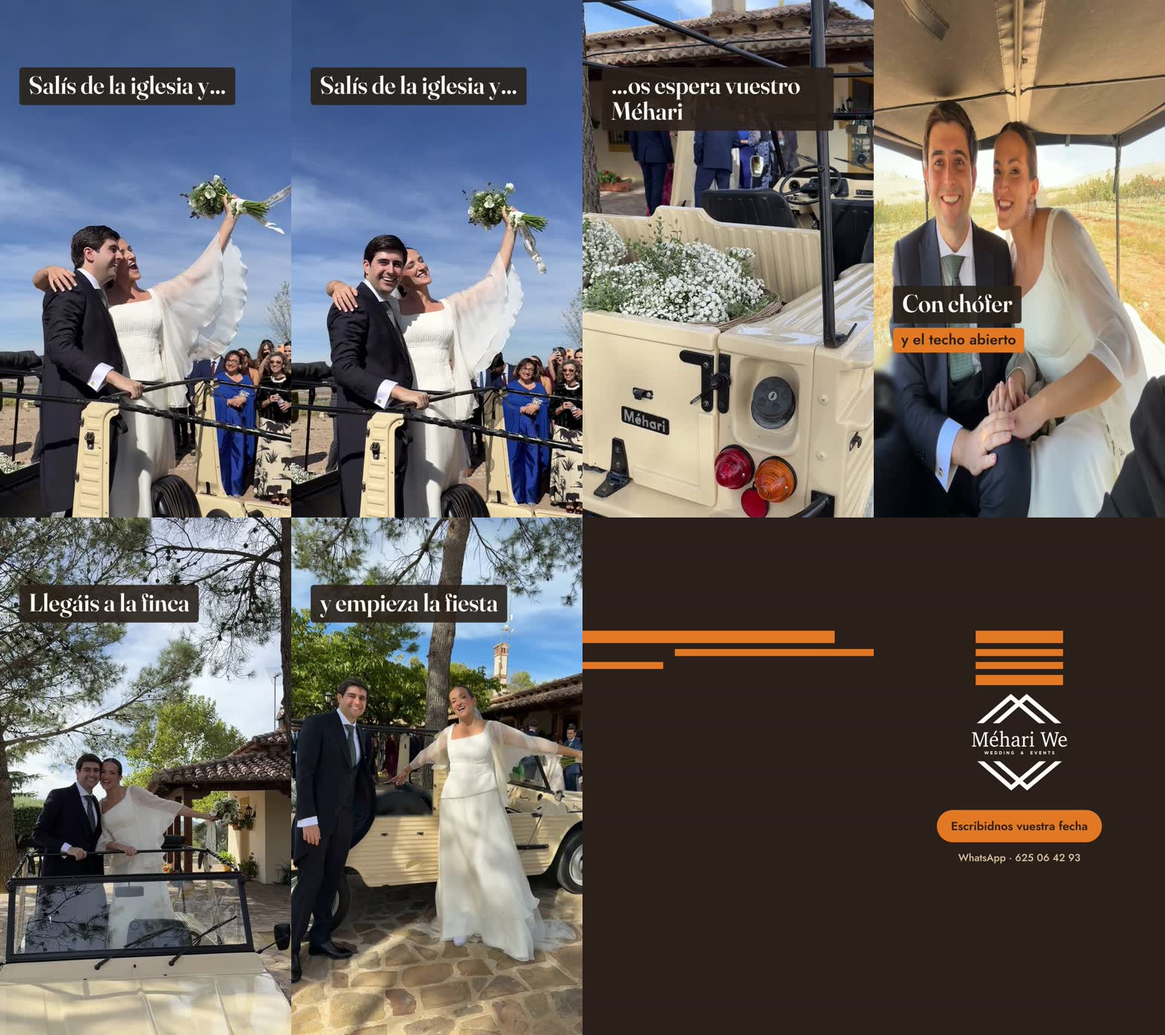
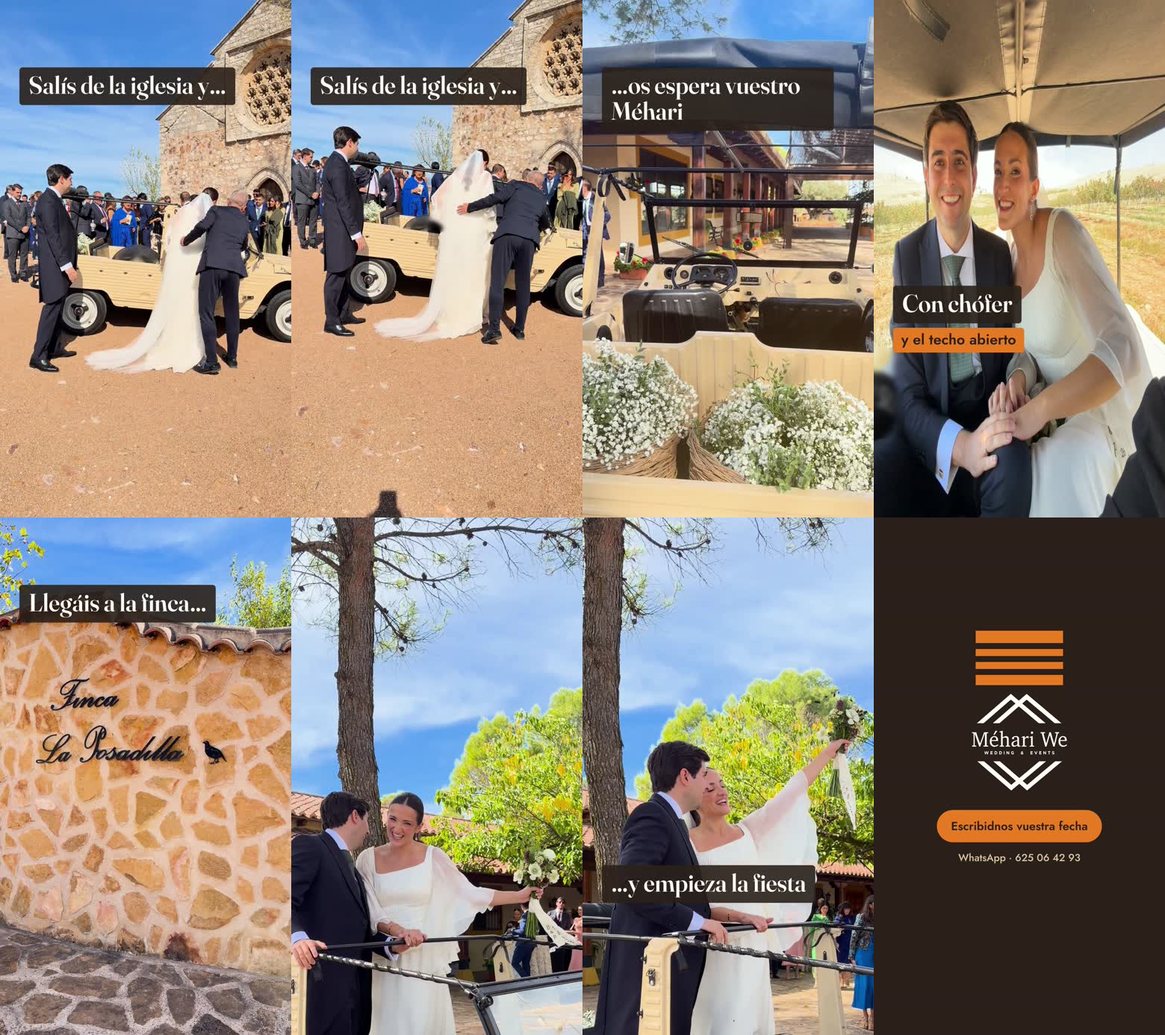
Rehace el reel «Salís de la iglesia y…» con los vídeos 4K de la boda
- v2 de 19,8 s con los vídeos de la carpeta de Drive (salida ante la ermita,
  cestas, cartel de la finca y llegada con los brazos arriba) más la Live del
  asiento de atrás, recortados desde el 4K y pasados de HLG a SDR.
- Funda de la salida lisa fotograma a fotograma con la herramienta nueva
  herramientas/material/funda_video.py; matrícula, chevrones y rótulo
  trasero fuera del encuadre.
- BRIEF, ficha y plan de la semana actualizados.

Claude-Session: https://claude.ai/code/session_01GvEHisSs4BYBiYTFsVnZm9

diff --git a/redes/instagram/reels/2026-11-11_salis-de-la-iglesia/index.html b/redes/instagram/reels/2026-11-11_salis-de-la-iglesia/index.html
@@ -24,41 +24,45 @@
       .rotulo { position: absolute; left: 72px; width: 860px; display: flex; flex-direction: column; align-items: flex-start; gap: 16px; }
       .rotulo.abajo { top: 1060px; }
       .rotulo.arriba { top: 250px; }
+      .rotulo.bajo { top: 1290px; }
       .linea { display: inline-block; }
       .principal { font-family: "Fraunces", serif; font-weight: 600; font-size: 92px; line-height: 1.04; color: var(--azahar); background: rgba(43, 33, 26, 0.9); padding: 18px 34px 26px; border-radius: 12px; }
       .secundaria { font-weight: 600; font-size: 54px; line-height: 1.12; color: var(--tinta); background: var(--naranja); padding: 14px 30px 18px; border-radius: 12px; }
     </style>
   </head>
   <body>
-    <div id="root" data-composition-id="reel" data-start="0" data-duration="15" data-width="1080" data-height="1920">
+    <div id="root" data-composition-id="reel" data-start="0" data-duration="19.8" data-width="1080" data-height="1920">
 
-      <!-- Pista 0: Live Photos de la boda del 24-10 en el orden del día, recortadas a 9:16 y con la funda
-           de la marca antigua, la matrícula y el chevrón fuera del encuadre (en 4049, difuminada; en 4079, funda lisa fotograma a fotograma). El sonido se mezcla aparte (BRIEF.md). -->
-      <video id="p1" class="clip plano" src="assets/clips/e1_4041_salida.mp4" data-start="0" data-duration="2.9" data-media-start="0" data-track-index="0" playsinline muted></video>
-      <video id="p2" class="clip plano" src="assets/clips/e2_4101_cestas.mp4" data-start="2.9" data-duration="1.9" data-media-start="0" data-track-index="0" playsinline muted></video>
-      <video id="p3" class="clip plano" src="assets/clips/e3_4049_detras.mp4" data-start="4.8" data-duration="2.8" data-media-start="0" data-track-index="0" playsinline muted></video>
-      <video id="p4" class="clip plano" src="assets/clips/e4_4073_llegada.mp4" data-start="7.6" data-duration="2.5" data-media-start="0" data-track-index="0" playsinline muted></video>
-      <video id="p5" class="clip plano" src="assets/clips/e5_4079_fiesta.mp4" data-start="10.1" data-duration="2.8" data-media-start="0" data-track-index="0" playsinline muted></video>
+      <!-- Pista 0: vídeos de la boda del 24-10 en el orden del día. Los 4K (HLG) se pasaron a SDR BT.709 y se
+           recortaron desde el original para dejar fuera la funda de la marca antigua, la matrícula, los chevrones
+           y el rótulo trasero (BRIEF.md). El plano del asiento de atrás es la Live Photo 4049. Sin sonido original. -->
+      <video id="p1" class="clip plano" src="assets/clips/e1_salida.mp4" data-start="0" data-duration="3.3" data-media-start="0" data-track-index="0" playsinline muted></video>
+      <video id="p2" class="clip plano" src="assets/clips/e2_cestas.mp4" data-start="3.3" data-duration="2.1" data-media-start="0" data-track-index="0" playsinline muted></video>
+      <video id="p3" class="clip plano" src="assets/clips/e3_detras.mp4" data-start="5.4" data-duration="2.8" data-media-start="0" data-track-index="0" playsinline muted></video>
+      <video id="p4" class="clip plano" src="assets/clips/e4_cartel.mp4" data-start="8.2" data-duration="2.4" data-media-start="0" data-track-index="0" playsinline muted></video>
+      <video id="p5" class="clip plano" src="assets/clips/e5_llegada.mp4" data-start="10.6" data-duration="3.0" data-media-start="0" data-track-index="0" playsinline muted></video>
+      <video id="p6" class="clip plano" src="assets/clips/e6_brazos.mp4" data-start="13.6" data-duration="4.1" data-media-start="0" data-track-index="0" playsinline muted></video>
 
       <!-- Pista 1: cierre de marca corto con el logo aprobado (2,1 s) -->
-      <div id="cierre" data-composition-id="cierre" data-composition-src="compositions/cierre-corto.html" data-start="12.9" data-duration="2.1" data-track-index="1" data-width="1080" data-height="1920"></div>
+      <div id="cierre" data-composition-id="cierre" data-composition-src="compositions/cierre-corto.html" data-start="17.7" data-duration="2.1" data-track-index="1" data-width="1080" data-height="1920"></div>
 
-      <!-- Pista 2: rótulos. Una frase partida en dos planos: «Salís de la iglesia y…» / «…os espera vuestro Méhari» -->
-      <div id="r1" class="clip rotulo arriba" data-start="0" data-duration="2.9" data-track-index="2">
+      <!-- Pista 2: rótulos. Dos frases partidas entre planos: «Salís de la iglesia y…» / «…os espera vuestro Méhari»
+           y «Llegáis a la finca…» / «…y empieza la fiesta». La llegada (p5) va sin texto, para que respire. -->
+      <div id="r1" class="clip rotulo arriba" data-start="0" data-duration="3.3" data-track-index="2">
         <span class="linea principal">Salís de la iglesia y…</span>
       </div>
-      <div id="r2" class="clip rotulo arriba" data-start="2.9" data-duration="1.9" data-track-index="2">
+      <div id="r2" class="clip rotulo arriba" data-start="3.3" data-duration="2.1" data-track-index="2">
         <span class="linea principal">…os espera vuestro Méhari</span>
       </div>
-      <div id="r3" class="clip rotulo abajo" data-start="4.8" data-duration="2.8" data-track-index="2">
+      <div id="r3" class="clip rotulo abajo" data-start="5.4" data-duration="2.8" data-track-index="2">
         <span class="linea principal">Con chófer</span>
         <span class="linea secundaria">y el techo abierto</span>
       </div>
-      <div id="r4" class="clip rotulo arriba" data-start="7.6" data-duration="2.5" data-track-index="2">
-        <span class="linea principal">Llegáis a la finca</span>
+      <div id="r4" class="clip rotulo arriba" data-start="8.2" data-duration="2.4" data-track-index="2">
+        <span class="linea principal">Llegáis a la finca…</span>
       </div>
-      <div id="r5" class="clip rotulo arriba" data-start="10.1" data-duration="2.8" data-track-index="2">
-        <span class="linea principal">y empieza la fiesta</span>
+      <div id="r5" class="clip rotulo bajo" data-start="13.6" data-duration="4.1" data-track-index="2">
+        <span class="linea principal">…y empieza la fiesta</span>
       </div>
     </div>
 
@@ -68,8 +72,8 @@
       // Cada línea se descubre de izquierda a derecha y se asienta sin rebote, justo después del corte.
       const oculto = { clipPath: "inset(0 100% 0 0)", x: -16 };
       const visible = { clipPath: "inset(0 0% 0 0)", x: 0, duration: 0.42, ease: "expo.out" };
-      [["#r1 .principal", 0.03], ["#r2 .principal", 2.95], ["#r3 .principal", 4.85], ["#r3 .secundaria", 5.2],
-       ["#r4 .principal", 7.65], ["#r5 .principal", 10.15]]
+      [["#r1 .principal", 0.03], ["#r2 .principal", 3.35], ["#r3 .principal", 5.45], ["#r3 .secundaria", 5.8],
+       ["#r4 .principal", 8.25], ["#r5 .principal", 13.7]]
         .forEach(([sel, t]) => tl.fromTo(sel, oculto, visible, t));
 
       window.__timelines["reel"] = tl;

diff --git a/herramientas/material/funda_video.py b/herramientas/material/funda_video.py
@@ -1,0 +1,75 @@
+"""Deja lisa la funda de la rueda de repuesto en un vídeo (borra «@MEHARI_TOURSUR» y el logo de Instagram).
+
+Es `--funda` de `retocar_foto.py` aplicado fotograma a fotograma: el polígono se marca una vez y se
+mueve con la funda, que se sigue con template matching. Se nota mucho menos que un difuminado.
+
+Uso:
+    python funda_video.py <entrada> <salida> T X,Y,AN,AL X1,Y1,X2,Y2,...
+
+- T: segundo en el que se marcan la caja y el polígono.
+- X,Y,AN,AL: caja que se sigue (la funda con un poco de margen), en píxeles del vídeo de entrada.
+- X1,Y1,…: polígono de la funda en ese mismo instante, por dentro del borde y sin tocar velos ni
+  ropa blanca, porque lo claro dentro del polígono se borra.
+
+Imprime el peor parecido del seguimiento; por debajo de 0,8 hay que revisar el vídeo. La salida no
+lleva audio y va en mp4v: vuelve a codificarla con FFmpeg (libx264) antes de montarla.
+La entrada tiene que ser SDR (ver la cabecera de `difuminar.py`). Necesita opencv-python-headless.
+"""
+import sys
+from pathlib import Path
+
+import cv2
+import numpy as np
+
+sys.path.insert(0, str(Path(__file__).resolve().parent))
+from retocar_foto import funda_lisa  # noqa: E402
+
+
+def main():
+    if len(sys.argv) != 6:
+        sys.exit(__doc__)
+    ent, sal, t0 = sys.argv[1], sys.argv[2], float(sys.argv[3])
+    x, y, w, h = (int(v) for v in sys.argv[4].split(","))
+    poli = np.array([int(v) for v in sys.argv[5].split(",")]).reshape(-1, 2)
+
+    cap = cv2.VideoCapture(ent)
+    fps = cap.get(cv2.CAP_PROP_FPS)
+    fs = []
+    while True:
+        ok, f = cap.read()
+        if not ok:
+            break
+        fs.append(f)
+    if not fs:
+        sys.exit(f"No se puede leer: {ent}")
+
+    i0 = min(len(fs) - 1, int(round(t0 * fps)))
+    cajas = [None] * len(fs)
+    cajas[i0] = (x, y)
+    peor = 1.0
+    for paso in (1, -1):
+        px, py = x, y
+        tpl = cv2.cvtColor(fs[i0], cv2.COLOR_BGR2GRAY)[y:y + h, x:x + w]
+        i = i0 + paso
+        while 0 <= i < len(fs):
+            g = cv2.cvtColor(fs[i], cv2.COLOR_BGR2GRAY)
+            r = 50
+            x0, y0 = max(0, px - r), max(0, py - r)
+            zona = g[y0:min(g.shape[0], py + h + r), x0:min(g.shape[1], px + w + r)]
+            _, v, _, loc = cv2.minMaxLoc(cv2.matchTemplate(zona, tpl, cv2.TM_CCOEFF_NORMED))
+            peor = min(peor, v)
+            px, py = x0 + loc[0], y0 + loc[1]
+            cajas[i] = (px, py)
+            tpl = g[py:py + h, px:px + w]  # la plantilla se actualiza: aguanta giros y cambios de escala lentos
+            i += paso
+
+    alto, ancho = fs[0].shape[:2]
+    out = cv2.VideoWriter(sal, cv2.VideoWriter_fourcc(*"mp4v"), fps, (ancho, alto))
+    for f, (cx, cy) in zip(fs, cajas):
+        out.write(funda_lisa(f, (poli + [cx - x, cy - y]).tolist()))
+    out.release()
+    print("peor parecido", round(peor, 2))
+
+
+if __name__ == "__main__":
+    main()

diff --git a/redes/instagram/publicaciones/2026-11-11_reel_salis-de-la-iglesia.md b/redes/instagram/publicaciones/2026-11-11_reel_salis-de-la-iglesia.md
@@ -3,11 +3,11 @@
 | Campo | Valor |
 |---|---|
 | Fecha prevista | 2026-11-11 (miércoles), 20:40 |
-| Formato | Reel 9:16, 15 s |
+| Formato | Reel 9:16, 19,8 s |
 | Línea | Bodas |
 | Objetivo | Alcance: llegar a parejas que no nos siguen |
 | Público | Parejas que se casan en 2027 |
-| Estado | Montado (v1). En revisión |
+| Estado | Montado (v2, con los vídeos 4K). En revisión |
 | Responsable | Nico (montaje) · Alejandro (texto y publicación) |
 
 Semana de la boda del 24-10-2026: [`redes/instagram/bodas/2026-10-24_la-posadilla/`](../bodas/2026-10-24_la-posadilla/README.md). Miércoles, «El momento», gancho 1 de la rotación (`docs/planes/semana-boda.md` §3).
@@ -16,9 +16,8 @@ Proyecto HyperFrames: [`redes/instagram/reels/2026-11-11_salis-de-la-iglesia/`](
 
 ## Material
 
-- Live Photos de la boda (clips de unos 3 s y menos de 10 MB, que el conector de Drive sí baja): IMG_4041, 4101, 4049, 4073 y 4079. Encuadre y retoque de cada una en el `BRIEF.md` del proyecto.
-- Vídeos largos (IMG_4036, 4052, 4053, 4075, 4081, 4087, 4090, 4102–4106 y 4108): pesan más de 10 MB y no se han usado. Para una v2 se bajan a mano de Drive; si hay un plano de la salida o del coche en marcha, sustituye a la Live correspondiente.
-- `revision-marca`: la funda «@MEHARI_TOURSUR» salía en cuatro clips, y la matrícula y el chevrón en la llegada. Resuelto con encuadre, difuminado (4049) o funda lisa (4079).
+- Vídeos 4K de la boda (IMG_4036, 4106, 4053 y 4075) y la Live Photo IMG_4049. Tramos, encuadres y retoques en el `BRIEF.md` del proyecto.
+- `revision-marca`: la funda «@MEHARI_TOURSUR» de la salida se deja lisa fotograma a fotograma (`funda_video.py`). La matrícula, los chevrones y el rótulo trasero quedan fuera del encuadre. Se descarta el principio de IMG_4036, donde sale un niño de cara.
 
 ## Guion
 
@@ -26,12 +25,13 @@ Montado así (hoja de contactos en `reels/2026-11-11_salis-de-la-iglesia/contact
 
 | Escena | Plano | Tramo | Texto en pantalla |
 |---|---|---|---|
-| Gancho | Live 4041: la novia levanta el ramo y el novio la abraza, con los invitados detrás | 0–2,9 s | Salís de la iglesia y… |
-| Detalle | Live 4101: la trasera con las cestas llenas de flores blancas | 2,9–4,8 s | …os espera vuestro Méhari |
-| Prueba | Live 4049: los dos riendo en el asiento de atrás, con el campo | 4,8–7,6 s | Con chófer · y el techo abierto |
-| Momento | Live 4073: llegada a la finca, de pie en el coche | 7,6–10,1 s | Llegáis a la finca |
-| Momento | Live 4079: la novia luce el vestido junto al coche | 10,1–12,9 s | y empieza la fiesta |
-| Cierre | Cierre corto con el logo aprobado | 12,9–15 s | Escribidnos vuestra fecha · WhatsApp 625 06 42 93 |
+| Gancho | La novia llega al coche ante la ermita, con el velo y los invitados alrededor (IMG_4036) | 0–3,3 s | Salís de la iglesia y… |
+| Detalle | Las cestas llenas de flores blancas, de cerca (IMG_4106) | 3,3–5,4 s | …os espera vuestro Méhari |
+| Prueba | Los dos riendo en el asiento de atrás, con el campo (Live 4049) | 5,4–8,2 s | Con chófer · y el techo abierto |
+| Llegada | El cartel de Finca La Posadilla, con la cámara acercándose (IMG_4053) | 8,2–10,6 s | Llegáis a la finca… |
+| Momento | Los novios de pie en el coche, riendo (IMG_4075) | 10,6–13,6 s | — |
+| Momento | Ramo y brazos arriba ante los invitados (IMG_4075) | 13,6–17,7 s | …y empieza la fiesta |
+| Cierre | Cierre corto con el logo aprobado | 17,7–19,8 s | Escribidnos vuestra fecha · WhatsApp 625 06 42 93 |
 
 ## Copy
 
@@ -48,10 +48,10 @@ Montado así (hoja de contactos en `reels/2026-11-11_salis-de-la-iglesia/contact
 ## Decisiones
 
 - **Gancho 1, «Salís de la iglesia y…»**: es la primera semana y la salida con el ramo arriba es el plano con más gente y más movimiento.
-- **Live Photos en lugar de los vídeos largos**: el conector de Drive no baja ficheros de más de 10 MB. Con clips de unos 3 s el ritmo queda en un corte cada 2–3 s, que es lo que pide el gancho.
-- **Reencuadre antes que difuminado**: en tres planos la funda, la matrícula o el chevrón quedan fuera del encuadre. En 4079 la funda está entre los novios y se deja lisa fotograma a fotograma, porque el difuminado se notaba mucho.
-- **Rótulos arriba en cuatro de los cinco planos**, para no tapar caras ni las cestas.
-- **Sin audio original.** El máster lleva una pista en silencio (decisión del 2026-10-19). Hay una alternativa con el sonido real de las Live Photos, pero hay que escucharla: el espectrograma sugiere música de fondo en la finca. Si se publica por Metricool, la música va **incrustada en el MP4** y es libre de derechos, porque la API no puede usar la biblioteca de Instagram. Si se quiere una canción en tendencia, el reel se deja en Metricool como «aviso al móvil» y se publica a mano (`docs/planes/publicacion-metricool.md` §3).
+- **v2 con los vídeos 4K** en lugar de solo Live Photos: la v1 (Live Photos de 3 s) no tenía planos con movimiento de verdad. Se queda una Live, la del asiento de atrás, porque no hay vídeo de ese momento.
+- **Reencuadre desde el 4K antes que difuminado**: la matrícula, los chevrones y el rótulo trasero quedan fuera. La funda de la salida, que está detrás de la novia, se deja lisa fotograma a fotograma.
+- **Dos frases partidas entre planos** («Salís de la iglesia y… / …os espera vuestro Méhari» y «Llegáis a la finca… / …y empieza la fiesta»). La llegada de pie va sin texto para que respire.
+- **Sin audio original.** El máster lleva una pista en silencio (decisión del 2026-10-19). Si se publica por Metricool, la música va **incrustada en el MP4** y es libre de derechos, porque la API no puede usar la biblioteca de Instagram. Si se quiere una canción en tendencia, el reel se deja en Metricool como «aviso al móvil» y se publica a mano (`docs/planes/publicacion-metricool.md` §3).
 - **Portada**: fotograma del gancho con el rótulo, también 3:4 para que se vea bien en el grid.
 
 ## Checklist
@@ -59,11 +59,11 @@ Montado así (hoja de contactos en `reels/2026-11-11_salis-de-la-iglesia/contact
 - [x] Un objetivo y una llamada a la acción claros
 - [x] Datos sacados del brief y de las fotos, sin nada inventado
 - [x] `revision-marca` del vídeo montado: ninguna funda legible, sin matrícula, sin chevrón y sin «Citroën» (fotogramas revisados)
-- [x] Sin caras de menores (los invitados del fondo son adultos)
+- [x] Sin caras de menores (se descarta el tramo de IMG_4036 donde sale un niño; los invitados del fondo son adultos)
 - [x] El reel se entiende sin sonido: no lleva voz y los rótulos cuentan la historia
 - [ ] Elegir música: de la biblioteca de Instagram (aviso) o libre de derechos e incrustada (automático)
 - [ ] Revisión de diseño de otro miembro del equipo
 - [ ] Permiso de los novios para publicar sus caras (bloqueante)
 - [ ] Aprobación del cliente (como tarde el 7-11) y de otro miembro del equipo
 
-**Probado:** `hyperframes check` sin errores (1 aviso de densidad de pista, igual que en los reels anteriores; contraste 7/7 WCAG AA); render de 15 s a 1080×1920; un fotograma por escena revisado a 390 px; el primer segundo por separado (el ramo arriba se entiende sin texto); `revision-marca` sobre cada fotograma; sonoridad de la versión con sonido real (−15,2 LUFS, −1,5 dBFS). No probado: la escucha del sonido real, la revisión de diseño por otra persona y la vista previa en un móvil.
+**Probado (v2):** `hyperframes check` sin errores (1 aviso de densidad de pista, como en los reels anteriores; contraste 6/6 WCAG AA); render de 19,8 s a 1080×1920; un fotograma por escena revisado a 390 px; `revision-marca` sobre la salida fotograma a fotograma (0,2, 1,0, 1,6, 2,4 y 3,1 s) y sobre el resto de planos. No probado: la revisión de diseño por otra persona y la vista previa en un móvil.

diff --git a/redes/instagram/bodas/2026-10-24_la-posadilla/README.md b/redes/instagram/bodas/2026-10-24_la-posadilla/README.md
@@ -6,7 +6,7 @@ Primera boda de Méhari We con la cuenta nueva. Preparada con la skill `semana-b
 |---|---|
 | Boda | Sáb 24-10-2026 · [PENDIENTE: iglesia o ermita y localidad] → Finca La Posadilla (se lee en el cartel, foto 4054) · coche **beige** · con chófer (los novios van detrás en la foto 4049; [PENDIENTE: confirmar]) · techo abierto, con la capota recogida |
 | Carpeta | Drive · `Mehari We/01_Material/Selecccion/Boda 2:11:2026` (id `1kBJeYOXad9bsfFV_ziWpuoi5qDGYL3fy`). **Ojo:** las carpetas están cruzadas. Por la fecha EXIF, las fotos del 24-10 están en «Boda 2:11:2026», y las de «Boda 24:10:2026» son del 31-10 |
-| Material | 48 fotos (iPhone, de 14:06 a 15:59), sus Live Photos y 15 vídeos. Los vídeos pesan más de 10 MB y el conector de Drive no los descarga: hay que bajarlos a mano para el reel |
+| Material | 48 fotos (iPhone, de 14:06 a 15:59), sus Live Photos y 15 vídeos (13 en 4K HDR y 2 de WhatsApp). Los vídeos pesan más de 10 MB: el conector de Drive no los baja y se descargaron directamente con la carpeta compartida por enlace |
 | Ficha | **No hay.** Todo lo que falta va en «Pendiente» |
 | Permiso de caras y nombres | [PENDIENTE]. Hasta que el cliente lo confirme, no se publican nombres. Las caras de los novios salen en las piezas y la aprobación queda condicionada a ese permiso |
 | Créditos | Fotógrafo [PENDIENTE] · finca [PENDIENTE: @ de Finca La Posadilla] · florista [PENDIENTE] |
@@ -57,16 +57,16 @@ JPEG en `jpg/la-boda/` y fuente en `piezas.html`. Ficha: [`2026-11-09_carrusel_b
 
 **Gancho: «Salís de la iglesia y…»** (el 1 de la rotación). Es la primera semana, así que no hay gancho anterior que evitar. Es también el plano con más gente y más movimiento: la 4041 con el ramo arriba y los invitados detrás.
 
-Montado con `guion-reel` a partir de las Live Photos: `redes/instagram/reels/2026-11-11_salis-de-la-iglesia/`. Ficha: [`2026-11-11_reel_salis-de-la-iglesia.md`](../../publicaciones/2026-11-11_reel_salis-de-la-iglesia.md).
+Montado con `guion-reel` a partir de los vídeos 4K de la carpeta: `redes/instagram/reels/2026-11-11_salis-de-la-iglesia/`. Ficha: [`2026-11-11_reel_salis-de-la-iglesia.md`](../../publicaciones/2026-11-11_reel_salis-de-la-iglesia.md).
 
 | Escena | Plano | Tramo | Texto en pantalla |
 |---|---|---|---|
-| Gancho | Live 4041/4042: ramo arriba entre los invitados | 0–3 s | Salís de la iglesia y… |
-| Detalle | Vídeo de las cestas o foto 4101 con movimiento | 3–6 s | …os espera vuestro Méhari |
-| Prueba | Live 4049/4050: los dos riendo en el asiento de atrás | 6–9 s | Con chófer y el techo abierto |
-| Momento | Live 4072/4073: llegada a la finca, de pie | 9–12 s | Llegáis a la finca |
-| Momento | Live 4078–4080: la novia luce el vestido | 12–15 s | y empieza la fiesta |
-| Cierre | Cierre corto de marca | 15–17 s | ¿Os casáis en 2027? Escribidnos vuestra fecha |
+| Gancho | IMG_4036: la novia llega al coche ante la ermita, entre los invitados | 0–3,3 s | Salís de la iglesia y… |
+| Detalle | IMG_4106: las cestas con flores blancas, de cerca | 3,3–5,4 s | …os espera vuestro Méhari |
+| Prueba | Live 4049: los dos riendo en el asiento de atrás | 5,4–8,2 s | Con chófer · y el techo abierto |
+| Llegada | IMG_4053: el cartel de la finca | 8,2–10,6 s | Llegáis a la finca… |
+| Momento | IMG_4075: de pie en el coche, riendo; luego ramo y brazos arriba | 10,6–17,7 s | …y empieza la fiesta |
+| Cierre | Cierre corto con el logo aprobado | 17,7–19,8 s | Escribidnos vuestra fecha |
 
 La funda, la matrícula y el chevrón quedan fuera del encuadre, difuminados o lisos (detalle en el `BRIEF.md` del reel). **Música:** si se publica por Metricool, va incrustada en el MP4 (libre de derechos) o el reel se publica a mano (`docs/planes/publicacion-metricool.md` §3).
 
@@ -123,7 +123,7 @@ Preguntas al cliente (van con el lote del jueves):
 
 > **Boda La Posadilla (24-10) · primera semana**
 > · Lun 9 · Carrusel «La boda», 9 fotos: hecho (Juan revisa).
-> · Mié 11 · Reel «Salís de la iglesia y…», 15 s: montado con las Live Photos (Nico). Falta elegir la música.
+> · Mié 11 · Reel «Salís de la iglesia y…», 20 s: montado con los vídeos 4K (Nico). Falta elegir la música.
 > · Vie 13 · Carrusel «Ellos eligieron el beige», palabra BEIGE: hecho (Juan revisa).
 > · Lote al cliente el jue 5 (Alejandro), aprobación hasta el sáb 7. Con el OK, se programa todo en Metricool.
 > · Falta: permiso de caras, iglesia y localidad, @ de la finca y del fotógrafo.

diff --git a/redes/instagram/reels/2026-11-11_salis-de-la-iglesia/BRIEF.md b/redes/instagram/reels/2026-11-11_salis-de-la-iglesia/BRIEF.md
@@ -7,7 +7,7 @@ destination: instagram-reels
 aspect: "9:16"
 language: es
 audience: parejas que se casan en 2027
-length: 15s
+length: 19.8s
 ---
 
 # Brief
@@ -16,17 +16,18 @@ Reel del miércoles («El momento») de la semana de la boda del 24-10-2026 en F
 
 ## Assets
 
-En `assets/clips/` (no versionados). Son Live Photos de la boda (HEVC, 1440×1920 SDR BT.709, unos 3 s), porque los vídeos largos pesan más de 10 MB y el conector de Drive no los baja. Se pasaron a 30 fps y se reencuadraron a 9:16:
+En `assets/clips/` (no versionados). Versión 2: con los **vídeos 4K de la boda**, que se bajaron directamente de Drive (la carpeta está compartida por enlace y el dominio permitido en la red del entorno). Son iPhone 4K en HDR (HLG): se pasaron a SDR BT.709 con el tonemap de `difuminar.py`, a 30 fps, y **se recortaron desde el 4K**, así que los reencuadres no pierden nitidez.
 
-| Clip | Origen | Encuadre | Marca antigua y matrícula |
-|---|---|---|---|
-| `e1_4041_salida.mp4` | IMG_4041.MOV | `crop=788:1400:390:0`, ampliado ×1,37 | La funda queda fuera del encuadre |
-| `e2_4101_cestas.mp4` | IMG_4101.MOV | `crop=810:1440:0:300`, ampliado ×1,33 | La funda queda fuera. Se ve la placa «Méhari» del coche, que es nuestra |
-| `e3_4049_detras.mp4` | IMG_4049.MOV | `crop=1080:1920:240:0` | Resto de la funda en el borde izquierdo, difuminado con `difuminar.py` (zona `1.0,0,1360,80,200`) |
-| `e4_4073_llegada.mp4` | IMG_4073.MOV | `crop=698:1240:370:200`, ampliado ×1,55 | Matrícula y chevrón del capó fuera del encuadre |
-| `e5_4079_fiesta.mp4` | IMG_4079.MOV | `crop=1080:1920:160:0` | Funda entre los novios: lisa fotograma a fotograma con `funda_lisa()` de `retocar_foto.py`, siguiendo el movimiento con *template matching* |
+| Clip | Origen | Tramo | Encuadre (sobre 2160×3840) | Marca antigua y matrícula |
+|---|---|---|---|---|
+| `e1_salida.mp4` | IMG_4036.MOV | 12,3–15,6 s | Completo | Funda lisa fotograma a fotograma con `herramientas/material/funda_video.py` (`0.2 440,900,215,105`, polígono `466,975,482,954,507,934,540,926,580,929,612,944,628,963,634,990,540,981`) |
+| `e2_cestas.mp4` | IMG_4106.MOV | 28,5–30,6 s | `crop=1900:3378:130:0` | La matrícula y el rótulo trasero quedan fuera por abajo |
+| `e3_detras.mp4` | Live Photo IMG_4049 | 0–2,8 s | `crop=1080:1920:240:0` sobre 1440×1920 | Resto de la funda en el borde, difuminado con `difuminar.py` |
+| `e4_cartel.mp4` | IMG_4053.MOV | 9,5–11,9 s | Completo | — |
+| `e5_llegada.mp4` | IMG_4075.MOV | 5,5–8,5 s | `crop=1350:2400:250:0` | Funda, matrícula y chevrón fuera del encuadre |
+| `e6_brazos.mp4` | IMG_4075.MOV | 9,8–13,9 s | `crop=1350:2400:400:0` | Ídem |
 
-Las ampliaciones llevan `scale=…:flags=lanczos,unsharp=5:5:0.5`.
+Descartados: IMG_4036 hasta el segundo 10 (sale un niño de cara), los planos frontales de IMG_4075 (matrícula y chevrones) y el vídeo de WhatsApp de la salida (`09d98426….mp4`, 848×478), que es el único con el coche arrancando entre los invitados pero no aguanta la ampliación a 9:16. Si el cliente tiene el original, sería el mejor gancho.
 
 `assets/vendor/gsap.min.js` es GSAP 3.14.2 en local: el render sin red no carga el CDN.
 
@@ -35,7 +36,6 @@ Las ampliaciones llevan `scale=…:flags=lanczos,unsharp=5:5:0.5`.
 - **`reel_9x16.mp4` (el máster) va sin sonido original**, con una pista AAC en silencio, como manda la decisión del 2026-10-19. La música se pone de dos maneras:
   - En la app, desde la biblioteca de Instagram (en Metricool, modo «aviso»).
   - Incrustada en el MP4 si es libre de derechos (modo automático, `docs/planes/publicacion-metricool.md` §3).
-- **`reel_9x16_sonido-real.mp4`** es la alternativa con el sonido de las Live Photos (vítores en la salida y ambiente), mezclado a −15 LUFS y −1,5 dBFS de pico. En el espectrograma hay una banda continua de 3 a 13 s que podría ser música de fondo de la finca. **Hay que escucharlo antes de usarlo.**
 
 ## Cierre
 

diff --git a/herramientas/material/README.md b/herramientas/material/README.md
@@ -29,6 +29,7 @@ Fuera de la secuencia, para preparar piezas:
 | Script | Qué hace |
 |---|---|
 | `difuminar.py` | Difumina matrículas, chevrones o caras en un vídeo y sigue la zona fotograma a fotograma. Uso y ejemplos en la cabecera del script. Avisa con `<< REVISAR` si pierde el seguimiento; aun así, revisa el resultado a ojo |
+| `funda_video.py` | `--funda` de `retocar_foto.py` en vídeo: deja lisa la funda de la rueda fotograma a fotograma, siguiéndola con template matching. Mejor que difuminarla cuando la funda está en el centro del plano. Uso en la cabecera |
 | `retocar_foto.py` | **Para fotos, en lugar de difuminar.** Deja la matrícula como una placa lisa (borra los caracteres y conserva la placa, su sombra y la banda azul) y borra los emblemas sobre chapa rellenándolos con la chapa de alrededor. Con `--funda`, deja lisa la funda negra de la rueda de repuesto (borra «@MEHARI_TOURSUR» y el logo de Instagram). Se marca a mano el polígono de cada placa. Uso en la cabecera del script |
 
 **Vídeos del iPhone:** vienen en HDR (HLG). Antes de montarlos, conviértelos a SDR BT.709 con el comando de la cabecera de `difuminar.py`. Si no, el naranja del coche sale amarillo y el render final queda marcado como HDR.
